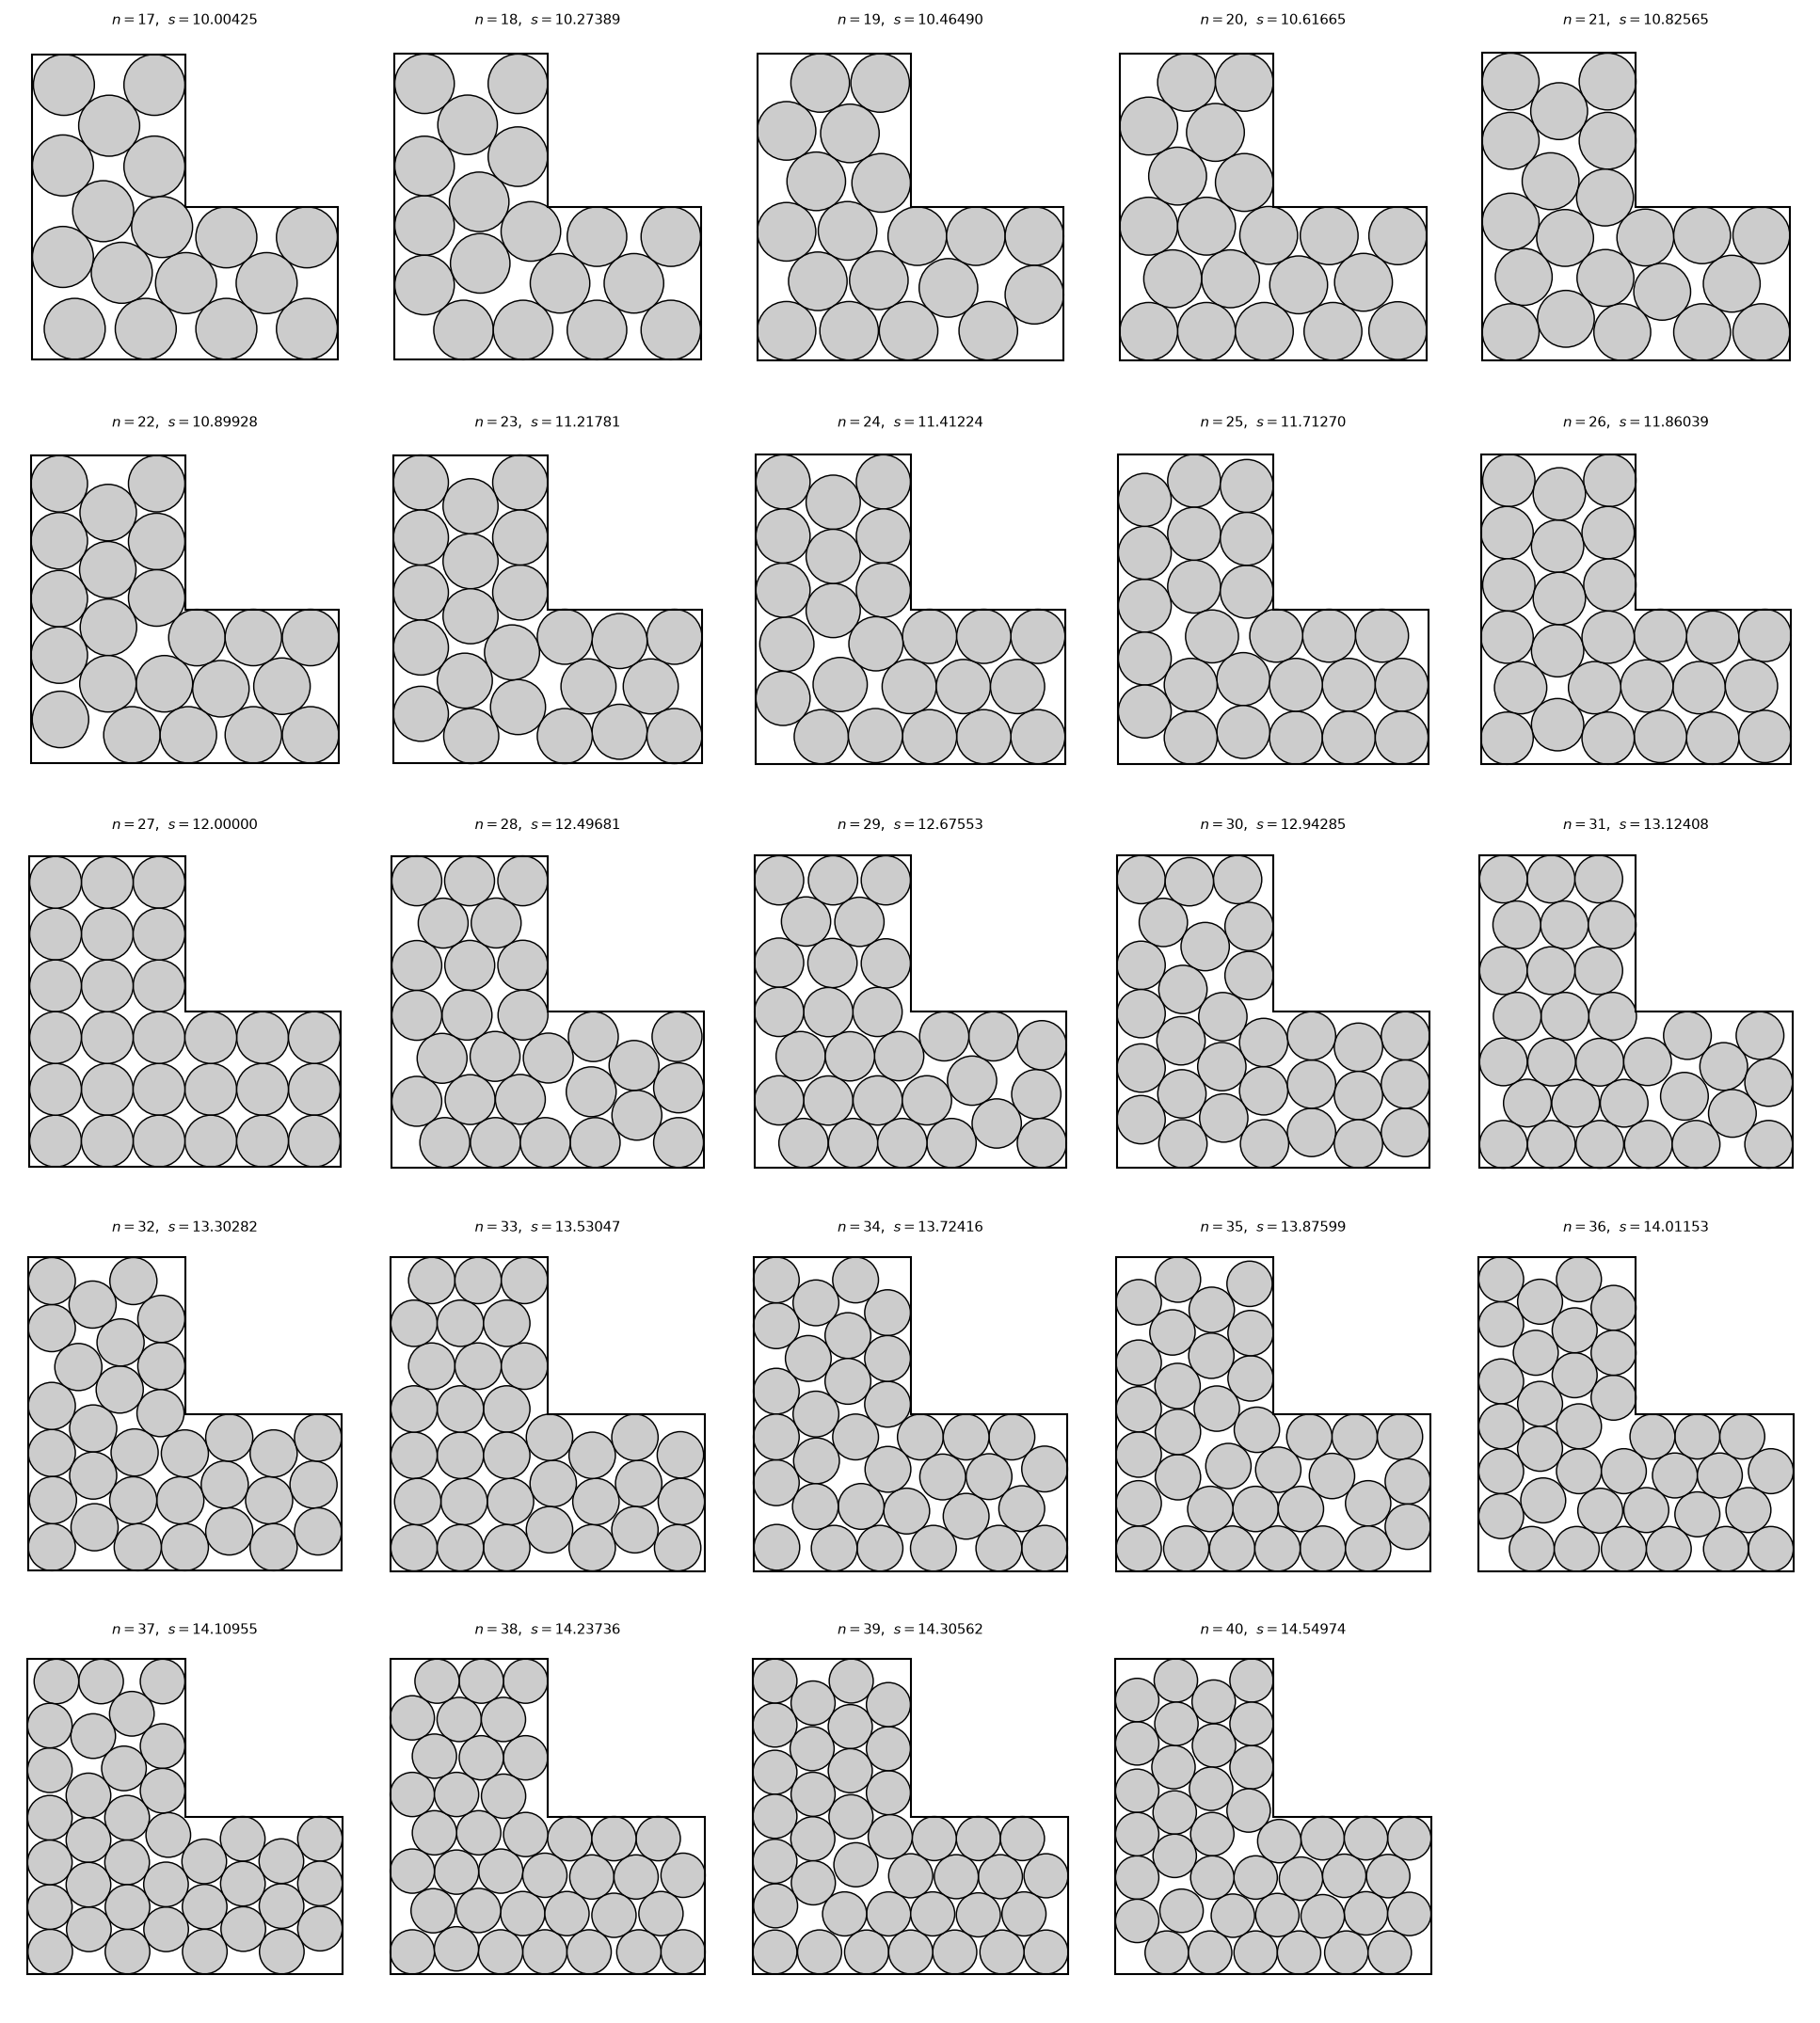
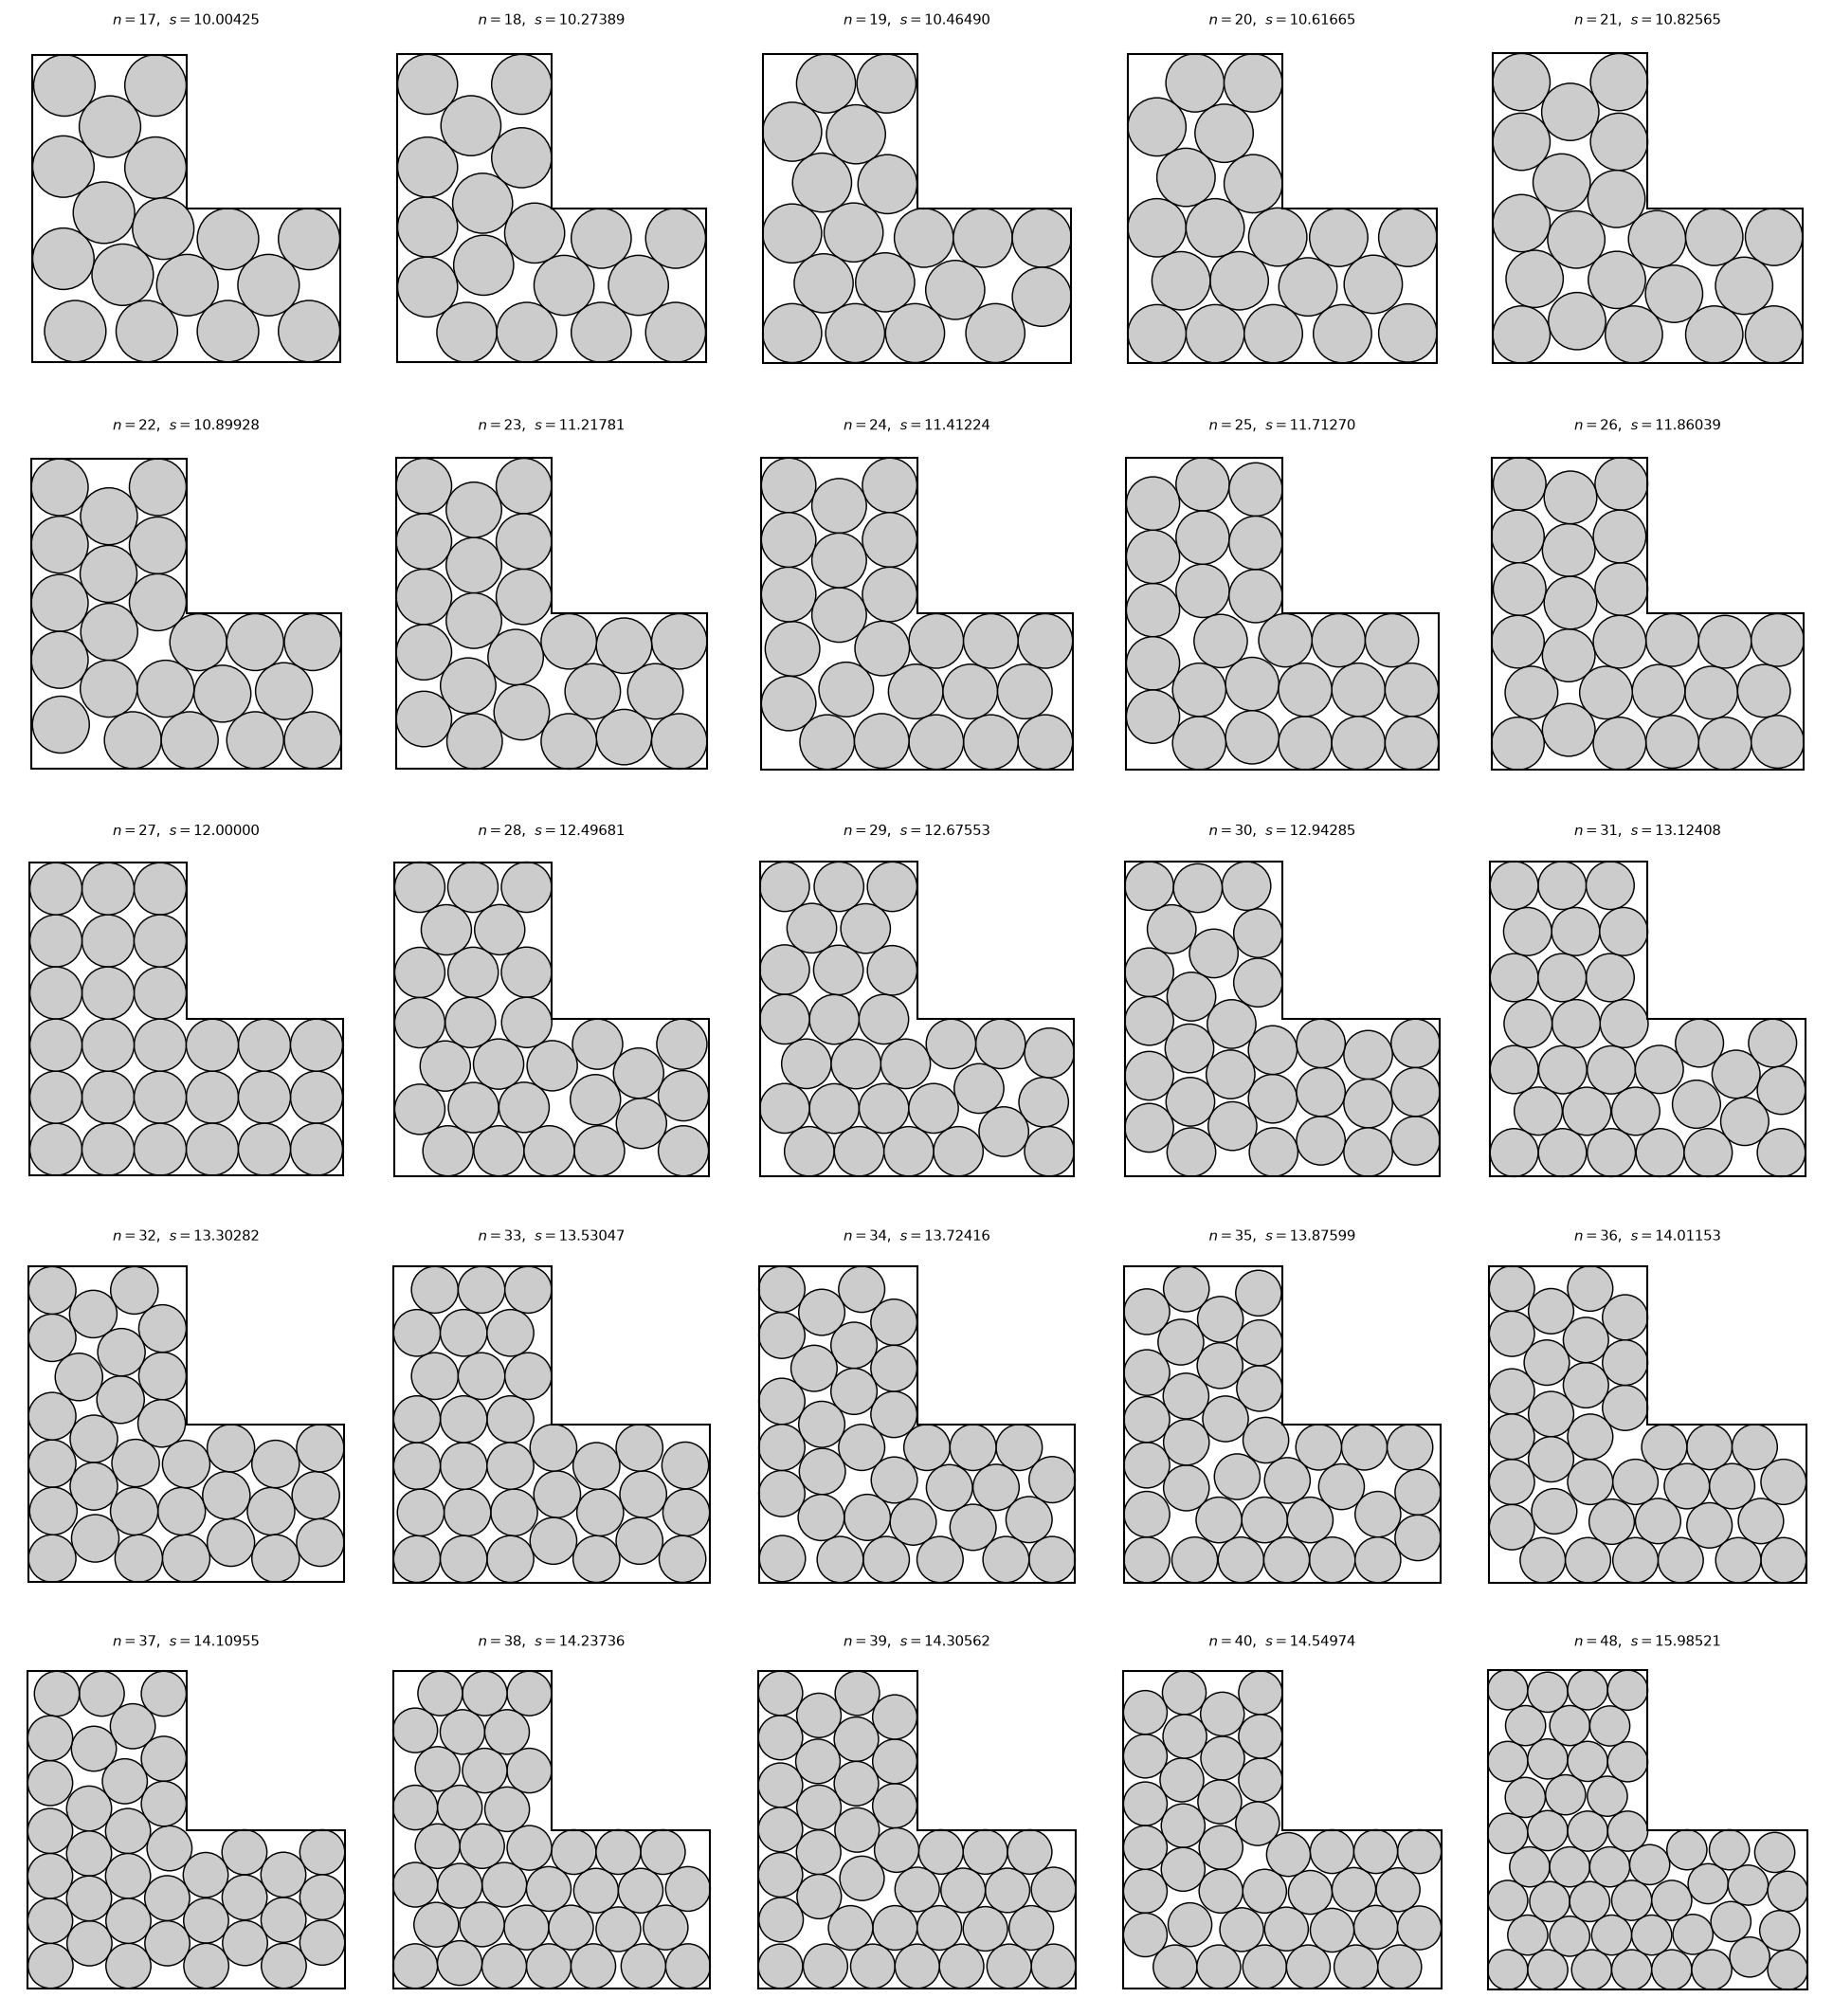
Add n=48 circles-in-L: first 3k^2 case where the square grid is beaten
A spacing-2 square grid fits exactly 3k^2 circles in the L at s=4k (optimal for
k=1,2,3). At k=4 (n=48) a staggered packing beats it: s=15.98521 < 16, found by
two independent hex-seeded optimizer runs agreeing to ~1e-15, strict-feasibility
rescaled and verified (min pair >=2, min wall >=1). Added to data/, figures/, and
the README as a standalone "grid is not optimal" result (best-known, not proven).

diff --git a/cirinl_circles_in_L/README.md b/cirinl_circles_in_L/README.md
@@ -31,6 +31,16 @@ The values increase monotonically in `n`, and each exceeds the published n = 16 
 (~1e-3 to 1e-2 apart); the smaller verified value is reported, and these are the
 likeliest to tighten with more search.
 
+### Bonus: n = 48 — the square grid is not optimal
+
+A square grid of spacing 2 fills the L of size `s = 4k` with exactly `3k²` circles
+(an `8×8` grid minus the removed `4×4` corner gives `48` at `s = 16`). For `k = 1,2,3`
+(`n = 3,12,27`) this grid is optimal — even staggered/hexagonal seeds polish back to
+`s = 4k`. The first `k` where it is beaten is **`k = 4` (`n = 48`)**: a staggered packing
+fits 48 circles at **`s = 15.98521 < 16`** (two independent optimizer seeds agree to
+~1e-15; verified). The entry is included in `data/` and the figures as `n = 48`. (This is
+a best-known/numerical result, not a proof of optimality.)
+
 Diagrams in Erich Friedman's site style (gray fill, black outline, no center dots) are in
 [`figures/`](figures/): small PNGs (`figures/png/`, sized so the outlines survive
 downscaling) and crisp SVGs (`figures/svg/`), one `nNN` file each.